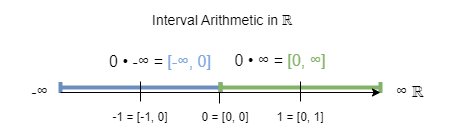
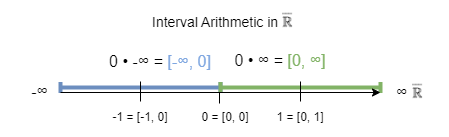
Using extended real numbers.

Changed region(s): [[0.343, 0.0876, 0.6548, 0.2044], [0.8731, 0.6131, 0.9666, 0.7299]]

diff --git a/README.md b/README.md
@@ -31,14 +31,14 @@ The result is again 0.
 
 ### Idea
 
-In interval arithmetic, the intervals $[0, ∞]$ and $[-∞, 0]$ are allowed [3].
+Using extended real number line $\overline {\mathbb R}$ [2] and in interval arithmetic [3], the intervals $[0, ∞]$ and $[-∞, 0]$ are allowed.
 
 The indeterminate form of $0 \cdot ∞$ can be expressed as the interval $[0, ∞]$.  
 Similar, the indeterminate form of $0 \cdot -∞$ is $[-∞, 0]$.
 
 ![](illustrations/visual_interval_arithmetic.png)
 
-The interval $[x_0, x_1]$ is estimated from $a \cdot b \in \mathbb R \land a \le b$ providing following rule:
+The interval $[x_0, x_1]$ is estimated from $a \cdot b \in \overline {\mathbb R} \land a \le b$ providing following rule:
 
 $$[x_0, x_1] = \{ x_0 = a \cdot b | b \in [a, b[ \land x_1 = a \cdot b | a \in ]a, b] \}$$
 
@@ -86,5 +86,6 @@ $1^∞ = ∞^0$
 
 [1] [Indeterminate form](https://en.wikipedia.org/wiki/Indeterminate_form)  
 [2] [Limit (mathematics)](https://en.wikipedia.org/wiki/Limit_(mathematics))  
-[3] [Interval arithmetic](https://en.wikipedia.org/wiki/Interval_arithmetic)  
-[4] [Ring (mathematics)](https://en.wikipedia.org/wiki/Ring_(mathematics))
+[3] [Extended real number line](https://en.wikipedia.org/wiki/Extended_real_number_line)
+[4] [Interval arithmetic](https://en.wikipedia.org/wiki/Interval_arithmetic)  
+[5] [Ring (mathematics)](https://en.wikipedia.org/wiki/Ring_(mathematics))
